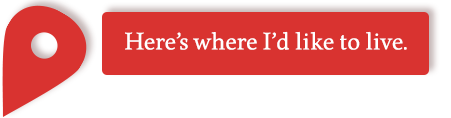
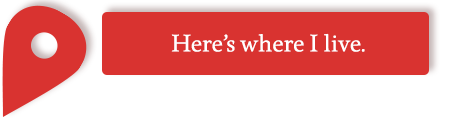
changed map position and removed viewport meta until I can get around to making site responsive.

Changed region(s): [[0.2794, 0.2542, 0.9002, 0.4576]]

diff --git a/css/main.css b/css/main.css
@@ -1,1 +1,1 @@
-html,body,div,span,h1,h2,h3,h4,h5,h6,p,blockquote,pre,a,cite,code,del,em,img,strike,strong,sub,sup,tt,var,b,u,i,center,dl,dt,dd,ol,ul,li,fieldset,form,label,legend,table,caption,tbody,tfoot,thead,tr,th,td,article,aside,canvas,details,embed,figure,figcaption,footer,header,hgroup,menu,nav,output,ruby,section,summary,time,mark,audio,video{margin:0;padding:0;border:0;font-size:100%;font:inherit;vertical-align:baseline}article,aside,details,figcaption,figure,footer,header,hgroup,menu,nav,section{display:block}ul{list-style:none}body{background:url("../images/bg.jpg") no-repeat #f6feff;background-size:cover;background-attachment:fixed;color:#5d5d5d;font:62.5% "Droid Serif","Book Antiqua",Palatino,"Palatino Linotype","Palatino LT STD",Georgia,serif}h1,h2,h3,h4{font-family:"Ubuntu","Helvetica Neue Light",Helvetica,Arial,sans-serif}h1{font-size:7.2em;line-height:1.5}h2{font-size:5.4em;line-height:1.5}h3{font-size:3em;line-height:1.5}p,ul,dl{font-size:1.8em;font-weight:100;line-height:1.5;margin-bottom:20px}ul{line-height:1.5}a,input[type="submit"]{text-decoration:none;color:#5d95ba;opacity:1;transition-duration:0.7s;-webkit-transition-duration:0.7s;outline:none}a:visited{outline:none}a:hover,input[type="submit"]:hover{opacity:.5;transition-duration:0.7s;-webkit-transition-duration:0.7s}a.no-tran:hover{opacity:1}img{max-width:100%}::-webkit-input-placeholder{color:#ccc}:-moz-placeholder{color:#ccc}::-moz-placeholder{color:#ccc}:-ms-input-placeholder{color:#ccc}.hide-text{text-indent:200%;overflow:hidden;white-space:nowrap}.container{width:100%}.page{width:100%;height:831px;margin-bottom:9px}.double{height:1680px}.red{color:#d93330}.light-gray{color:#ccc}.text-gray{color:#5d5d5d}.dark-gray{color:#252525}.underline{text-decoration:underline}.heart{font-size:.85em}header{height:0}.page:nth-child(1n+1){background:#f6feff;color:#252525}.page:nth-child(2n+1){background:#252525;color:#ccc}.page-inner{max-width:1140px;margin:0 auto;padding-top:54px;text-align:center;font-weight:100}.page p{width:504px;margin:0 auto;font-weight:100}.page p.quote{width:100%;font-size:3.6em;font-family:"Tangerine",cursive}.page p.error{color:#f6feff;font-size:.9em;text-align:left;width:366px;position:absolute;z-index:99999;top:25%;left:0;padding-left:3%;background:#d93330;opacity:0;transition-duration:0.7s;-webkit-transition-duration:0.7s}.page p.error.phone-error{top:39%}.img-container{overflow:hidden;margin-top:36px}.img-container a{float:left;display:block;width:20%;height:210px}.page.landing{background:#f6feff;height:535px;color:#252525}.arrow-container{overflow:hidden;width:100%;margin:-10px auto 90px}.landing-arrow{margin:0 auto}.like .img-container{height:378px;overflow:hidden}.like .img-container a.zig-zag{margin-top:36px}.like .img-container a.zig-zag-1{margin-top:166px}.like .img-container a.zig-zag-2{margin-top:90px}.like .img-container a.zig-zag-3{margin-top:162px}.like .img-container a.zig-zag-4{margin-top:108px}p.subtext{margin:36px auto;font-size:2.1em}img.web-logos{text-align:center;margin-top:18px}a.resume{font-size:1.8em;color:#ccc;margin:36px 0 72px;display:block}a.resume img{height:40px;margin-right:18px}.work .img-container{margin:18px 0 126px}.work h3{color:#d93330;text-align:left}.contact{height:1584px}#map-canvas{width:100%;height:530px;margin-top:72px;-webkit-box-shadow:0px 0px 9px rgba(50,50,50,0.76);-moz-box-shadow:0px 0px 9px rgba(50,50,50,0.76);box-shadow:0px 0px 9px rgba(50,50,50,0.76)}.contact-body{overflow:hidden;width:802px;margin:63px auto 0}.contact-form{width:366px;float:left;margin:9px 36px 0 0;position:relative}.contact-form input[type="text"],.contact-form input[type="email"],.contact-form input[type="submit"],.contact-form textarea{width:366px;height:54px;border-radius:2px;border:1px solid #5d5d5d;margin-bottom:9px;padding:9px;font-family:"Droid Serif","Book Antiqua",Palatino,"Palatino Linotype","Palatino LT STD",Georgia,serif;font-size:1.8em;color:#5d5d5d}.contact-form textarea{height:198px}.contact-form input[type="submit"]{background:#479648;border:none;font-family:"Ubuntu","Helvetica Neue Light",Helvetica,Arial,sans-serif;font-weight:100;color:#f6feff}.contact-content{width:400px;float:left}.contact-content p{width:400px;text-align:left;color:#5d5d5d;font-weight:100}p.info{margin:81px auto;text-align:center;width:200px}body.projects{background:#f6feff}.projects header{position:fixed;z-index:500;width:100%;height:54px;background:#252525;opacity:.8;font-family:"Ubuntu","Helvetica Neue Light",Helvetica,Arial,sans-serif}.projects header h1{color:#ccc;font-size:1.6em;display:inline;line-height:54px}.projects h3{font-weight:100;margin-bottom:9px;color:#d93330}.header-inner{max-width:1140px;margin:0 auto;padding:0 36px;font-weight:100}nav{overflow:hidden;display:inline}nav ul{float:right;margin-bottom:0}nav ul a{color:#ccc}nav ul li{display:inline-block;font-size:.8em;padding-left:18px;line-height:54px}.featured{height:654px;width:100%;overflow:hidden;position:relative}.featured h2{position:absolute;top:34%;left:22%;bottom:34%;right:22%;z-index:200;font-size:18em;font-size:8.5vw;font-family:"Tangerine",cursive;color:#d93330;text-align:center;text-shadow:2px 2px 4px rgba(0,0,0,0.2)}.featured img{width:100%}.project-inner{max-width:1140px;margin:0 auto}.description{text-align:center;padding:87px 0 88px;border-bottom:1px solid #ccc}.description h3{font-size:5.8em;font-family:"Tangerine",cursive}.description h4,.details-sidebar h4{font-size:2.1em;font-weight:100;width:100%}.details{overflow:hidden;padding:88px 0 0;border-bottom:1px solid #ccc;margin-bottom:108px;position:relative}.details-desc{max-width:570px;padding-right:3.157895%;float:left}.details-desc p{margin-bottom:162px}.details-sidebar{max-width:570px;float:left;padding-top:10px}.details-sidebar h4{margin-bottom:9px;color:#d93330;padding-bottom:9px;border-bottom:1px solid #ccc}.details-sidebar p{margin-bottom:39px}.details-sidebar ul{list-style-type:disc;padding-left:16px}.github-link{display:block;font-size:1.4em;margin-bottom:9px;position:absolute;bottom:0}.shots{overflow:hidden;margin-bottom:88px}.shots img{display:block;margin-bottom:36px}.shot-left-col{float:left;margin-right:36px}.shot-right-col{float:left}.lb-caption{font-family:"Ubuntu","Helvetica Neue Light",Helvetica,Arial,sans-serif;font-weight:100;color:#ccc}.project-contact h3{text-align:center;border-bottom:1px solid #ccc}.project-contact .contact-icons{margin:0 auto 88px;width:1140px;text-align:center;border-bottom:1px solid #ccc}.project-contact .contact-icons a{display:inline-block;padding:36px}footer{background:#252525;height:144px;padding-top:70px}footer p{width:220px;margin:0 auto}
+html,body,div,span,h1,h2,h3,h4,h5,h6,p,blockquote,pre,a,cite,code,del,em,img,strike,strong,sub,sup,tt,var,b,u,i,center,dl,dt,dd,ol,ul,li,fieldset,form,label,legend,table,caption,tbody,tfoot,thead,tr,th,td,article,aside,canvas,details,embed,figure,figcaption,footer,header,hgroup,menu,nav,output,ruby,section,summary,time,mark,audio,video{margin:0;padding:0;border:0;font-size:100%;font:inherit;vertical-align:baseline}article,aside,details,figcaption,figure,footer,header,hgroup,menu,nav,section{display:block}ul{list-style:none}body{background:url("../images/bg.jpg") no-repeat #f6feff;background-size:cover;background-attachment:fixed;color:#5d5d5d;font:62.5% "Droid Serif","Book Antiqua",Palatino,"Palatino Linotype","Palatino LT STD",Georgia,serif}h1,h2,h3,h4{font-family:"Ubuntu","Helvetica Neue Light",Helvetica,Arial,sans-serif}h1{font-size:7.2em;line-height:1.5}h2{font-size:5.4em;line-height:1.5}h3{font-size:3em;line-height:1.5}p,ul,dl{font-size:1.8em;font-weight:100;line-height:1.5;margin-bottom:20px}ul{line-height:1.5}a,input[type="submit"]{text-decoration:none;color:#5d95ba;opacity:1;transition-duration:0.7s;-webkit-transition-duration:0.7s;outline:none;-webkit-appearance:none}a:visited{outline:none}a:hover,input[type="submit"]:hover{opacity:.5;transition-duration:0.7s;-webkit-transition-duration:0.7s}a.no-tran:hover{opacity:1}img{max-width:100%}::-webkit-input-placeholder{color:#ccc}:-moz-placeholder{color:#ccc}::-moz-placeholder{color:#ccc}:-ms-input-placeholder{color:#ccc}.hide-text{text-indent:200%;overflow:hidden;white-space:nowrap}.container{width:100%}.page{width:100%;height:831px;margin-bottom:9px}.double{height:1680px}.red{color:#d93330}.light-gray{color:#ccc}.text-gray{color:#5d5d5d}.dark-gray{color:#252525}.underline{text-decoration:underline}.heart{font-size:.85em}header{height:0}.page:nth-child(1n+1){background:#f6feff;color:#252525}.page:nth-child(2n+1){background:#252525;color:#ccc}.page-inner{max-width:1140px;margin:0 auto;padding-top:54px;text-align:center;font-weight:100}.page p{width:504px;margin:0 auto;font-weight:100}.page p.quote{width:100%;font-size:3.6em;font-family:"Tangerine",cursive}.page p.error{color:#f6feff;font-size:.9em;text-align:left;width:366px;position:absolute;z-index:99999;top:25%;left:0;padding-left:3%;background:#d93330;opacity:0;transition-duration:0.7s;-webkit-transition-duration:0.7s}.page p.error.phone-error{top:39%}.img-container{overflow:hidden;margin-top:36px}.img-container a{float:left;display:block;width:20%;height:210px}.page.landing{background:#f6feff;height:535px;color:#252525}.arrow-container{overflow:hidden;width:100%;margin:-10px auto 90px}.landing-arrow{margin:0 auto}.like .img-container{height:378px;overflow:hidden}.like .img-container a.zig-zag{margin-top:36px}.like .img-container a.zig-zag-1{margin-top:166px}.like .img-container a.zig-zag-2{margin-top:90px}.like .img-container a.zig-zag-3{margin-top:162px}.like .img-container a.zig-zag-4{margin-top:108px}p.subtext{margin:36px auto;font-size:2.1em}img.web-logos{text-align:center;margin-top:18px}a.resume{font-size:1.8em;color:#ccc;margin:36px 0 72px;display:block}a.resume img{height:40px;margin-right:18px}.work .img-container{margin:18px 0 126px}.work h3{color:#d93330;text-align:left}.contact{height:1584px}#map-canvas{width:100%;height:530px;margin-top:72px;-webkit-box-shadow:0px 0px 9px rgba(50,50,50,0.76);-moz-box-shadow:0px 0px 9px rgba(50,50,50,0.76);box-shadow:0px 0px 9px rgba(50,50,50,0.76)}.contact-body{overflow:hidden;width:802px;margin:63px auto 0}.contact-form{width:366px;float:left;margin:9px 36px 0 0;position:relative}.contact-form input[type="text"],.contact-form input[type="email"],.contact-form input[type="submit"],.contact-form textarea{width:366px;height:54px;border-radius:2px;border:1px solid #5d5d5d;margin-bottom:9px;padding:9px;font-family:"Droid Serif","Book Antiqua",Palatino,"Palatino Linotype","Palatino LT STD",Georgia,serif;font-size:1.8em;color:#5d5d5d}.contact-form textarea{height:198px}.contact-form input[type="submit"]{background:#479648;border:none;font-family:"Ubuntu","Helvetica Neue Light",Helvetica,Arial,sans-serif;font-weight:100;color:#f6feff}.contact-content{width:400px;float:left}.contact-content p{width:400px;text-align:left;color:#5d5d5d;font-weight:100}p.info{margin:81px auto;text-align:center;width:200px}body.projects{background:#f6feff}.projects header{position:fixed;z-index:500;width:100%;height:54px;background:#252525;opacity:.8;font-family:"Ubuntu","Helvetica Neue Light",Helvetica,Arial,sans-serif}.projects header h1{color:#ccc;font-size:1.6em;display:inline;line-height:54px}.projects h3{font-weight:100;margin-bottom:9px;color:#d93330}.header-inner{max-width:1140px;margin:0 auto;padding:0 36px;font-weight:100}nav{overflow:hidden;display:inline}nav ul{float:right;margin-bottom:0}nav ul a{color:#ccc}nav ul li{display:inline-block;font-size:.8em;padding-left:18px;line-height:54px}.featured{height:654px;width:100%;overflow:hidden;position:relative}.featured h2{position:absolute;top:34%;left:22%;bottom:34%;right:22%;z-index:200;font-size:18em;font-size:8.5vw;font-family:"Tangerine",cursive;color:#d93330;text-align:center;text-shadow:2px 2px 4px rgba(0,0,0,0.2)}.featured img{width:100%}.project-inner{max-width:1140px;margin:0 auto}.description{text-align:center;padding:87px 0 88px;border-bottom:1px solid #ccc}.description h3{font-size:5.8em;font-family:"Tangerine",cursive}.description h4,.details-sidebar h4{font-size:2.1em;font-weight:100;width:100%}.details{overflow:hidden;padding:88px 0 0;border-bottom:1px solid #ccc;margin-bottom:108px;position:relative}.details-desc{max-width:570px;padding-right:3.157895%;float:left}.details-desc p{margin-bottom:162px}.details-sidebar{max-width:570px;float:left;padding-top:10px}.details-sidebar h4{margin-bottom:9px;color:#d93330;padding-bottom:9px;border-bottom:1px solid #ccc}.details-sidebar p{margin-bottom:39px}.details-sidebar ul{list-style-type:disc;padding-left:16px}.github-link{display:block;font-size:1.4em;margin-bottom:9px;position:absolute;bottom:0}.shots{overflow:hidden;margin-bottom:88px}.shots img{display:block;margin-bottom:36px}.shot-left-col{float:left;margin-right:36px}.shot-right-col{float:left}.lb-caption{font-family:"Ubuntu","Helvetica Neue Light",Helvetica,Arial,sans-serif;font-weight:100;color:#ccc}.project-contact h3{text-align:center;border-bottom:1px solid #ccc}.project-contact .contact-icons{margin:0 auto 88px;width:1140px;text-align:center;border-bottom:1px solid #ccc}.project-contact .contact-icons a{display:inline-block;padding:36px}footer{background:#252525;height:144px;padding-top:70px}footer p{width:220px;margin:0 auto}

diff --git a/js/main.js b/js/main.js
@@ -5,10 +5,10 @@ $(function(){
 // Google maps
 	function initialize() {
 		// Source: http://stiern.com/tutorials/adding-custom-google-maps-to-your-website/
-		var latlng = new google.maps.LatLng(36.698638, -74.804601);
+		var latlng = new google.maps.LatLng(26.7153, -80.0534);
 		
 		var settings = {
-			zoom: 6,
+			zoom: 8,
 			scrollwheel: false,
 			center: latlng,
 			mapTypeControl: true,
@@ -26,7 +26,7 @@ $(function(){
 		new google.maps.Point(0,118)
 	);
 
-	var companyPos = new google.maps.LatLng(36.8506, -76);
+	var companyPos = new google.maps.LatLng(26.7153, -80.0534);
 	
 	var companyMarker = new google.maps.Marker({
 		position: companyPos,
@@ -37,6 +37,16 @@ $(function(){
 	}// /initialize()
 	
 	initialize();
+
+
+
+
+
+
+
+
+
+
 
 	//contact icon hover states
 	//on mouse over
@@ -59,6 +69,11 @@ $(function(){
 	$(document).on('mouseover', 'img.fb-icon', function(){
 		$(".fb-icon").attr('src', 'images/fb-icon-hover.png');
 	});
+
+
+
+
+
 
 
 	//contact icon hover states
@@ -84,6 +99,16 @@ $(function(){
 	});
 
 
+
+
+
+
+
+
+
+
+
+
 	//--------------------------------animate.css hover animations----------------------
 	$(document).on('mouseover', '.img-container a', function(){
 		$(this).addClass('animated pulse');
@@ -104,6 +129,16 @@ $(function(){
 	function removeSwing(){
 		$('img.profile-pic').removeClass('animated swing');
 	}
+
+
+
+
+
+
+
+
+
+
 
 
 
@@ -137,6 +172,16 @@ $(function(){
 	});
 
 
+
+
+
+
+
+
+
+
+
+
 	//-------------------------------------------Scrollsnap.js-----------------------------------
 	//https://github.com/benoitpointet/jquery-scrollsnap-plugin/blob/master/index.html
 
@@ -145,6 +190,16 @@ $(function(){
         proximity: 200,
         easing: 'easeOutBounce'
         });
+
+
+
+
+
+
+
+
+
+
 
 //-------------------AJAX call test----------------------------------------
 

diff --git a/css/main.scss b/css/main.scss
@@ -105,6 +105,7 @@ color: $blue;
 opacity: 1;
 @include duration;
 outline: none;
+-webkit-appearance: none;/*overrides safari mobile default styling*/
 }
 
 a:visited{

diff --git a/index.php b/index.php
@@ -14,7 +14,7 @@
 
 	<!-- meta -->
 	<meta charset="utf-8" />
-	<meta name="viewport" content="width=device-width, initial-scale=1.0, maximum-scale=1.0, user-scalable=no" />
+	<!-- <meta name="viewport" content="width=device-width, initial-scale=1.0, maximum-scale=1.0, user-scalable=no" /> -->
 
 	<!-- favicon & humans.txt -->
 	<link type="text/plain" rel="author" href="/humans.txt" />
@@ -190,7 +190,7 @@
 
 							<div class="contact-content">
 							
-							<p><span class="red">I’m interested in relocating to the Virginia Beach, VA area.</span>  But, if the opportunity is right, feel free to pay me loads of money and fly me around the world. <span class="dark-gray">Go ahead. Contact me</span> via the form at left, by phone or email, even if it's just to say hi. <span class="red">&#9786;</span></p>
+							<p><span class="red">I’m interested in working in the West Palm Beach to Miami area.</span>  But, if the opportunity is right, feel free to pay me loads of money and fly me around the world. <span class="dark-gray">Go ahead. Contact me</span> via the form at left, by phone or email, even if it's just to say hi. <span class="red">&#9786;</span></p>
 
 							<p class="info"><span class="red">Adam Shields Gedney</span>
 								adam@adamgedney.com
